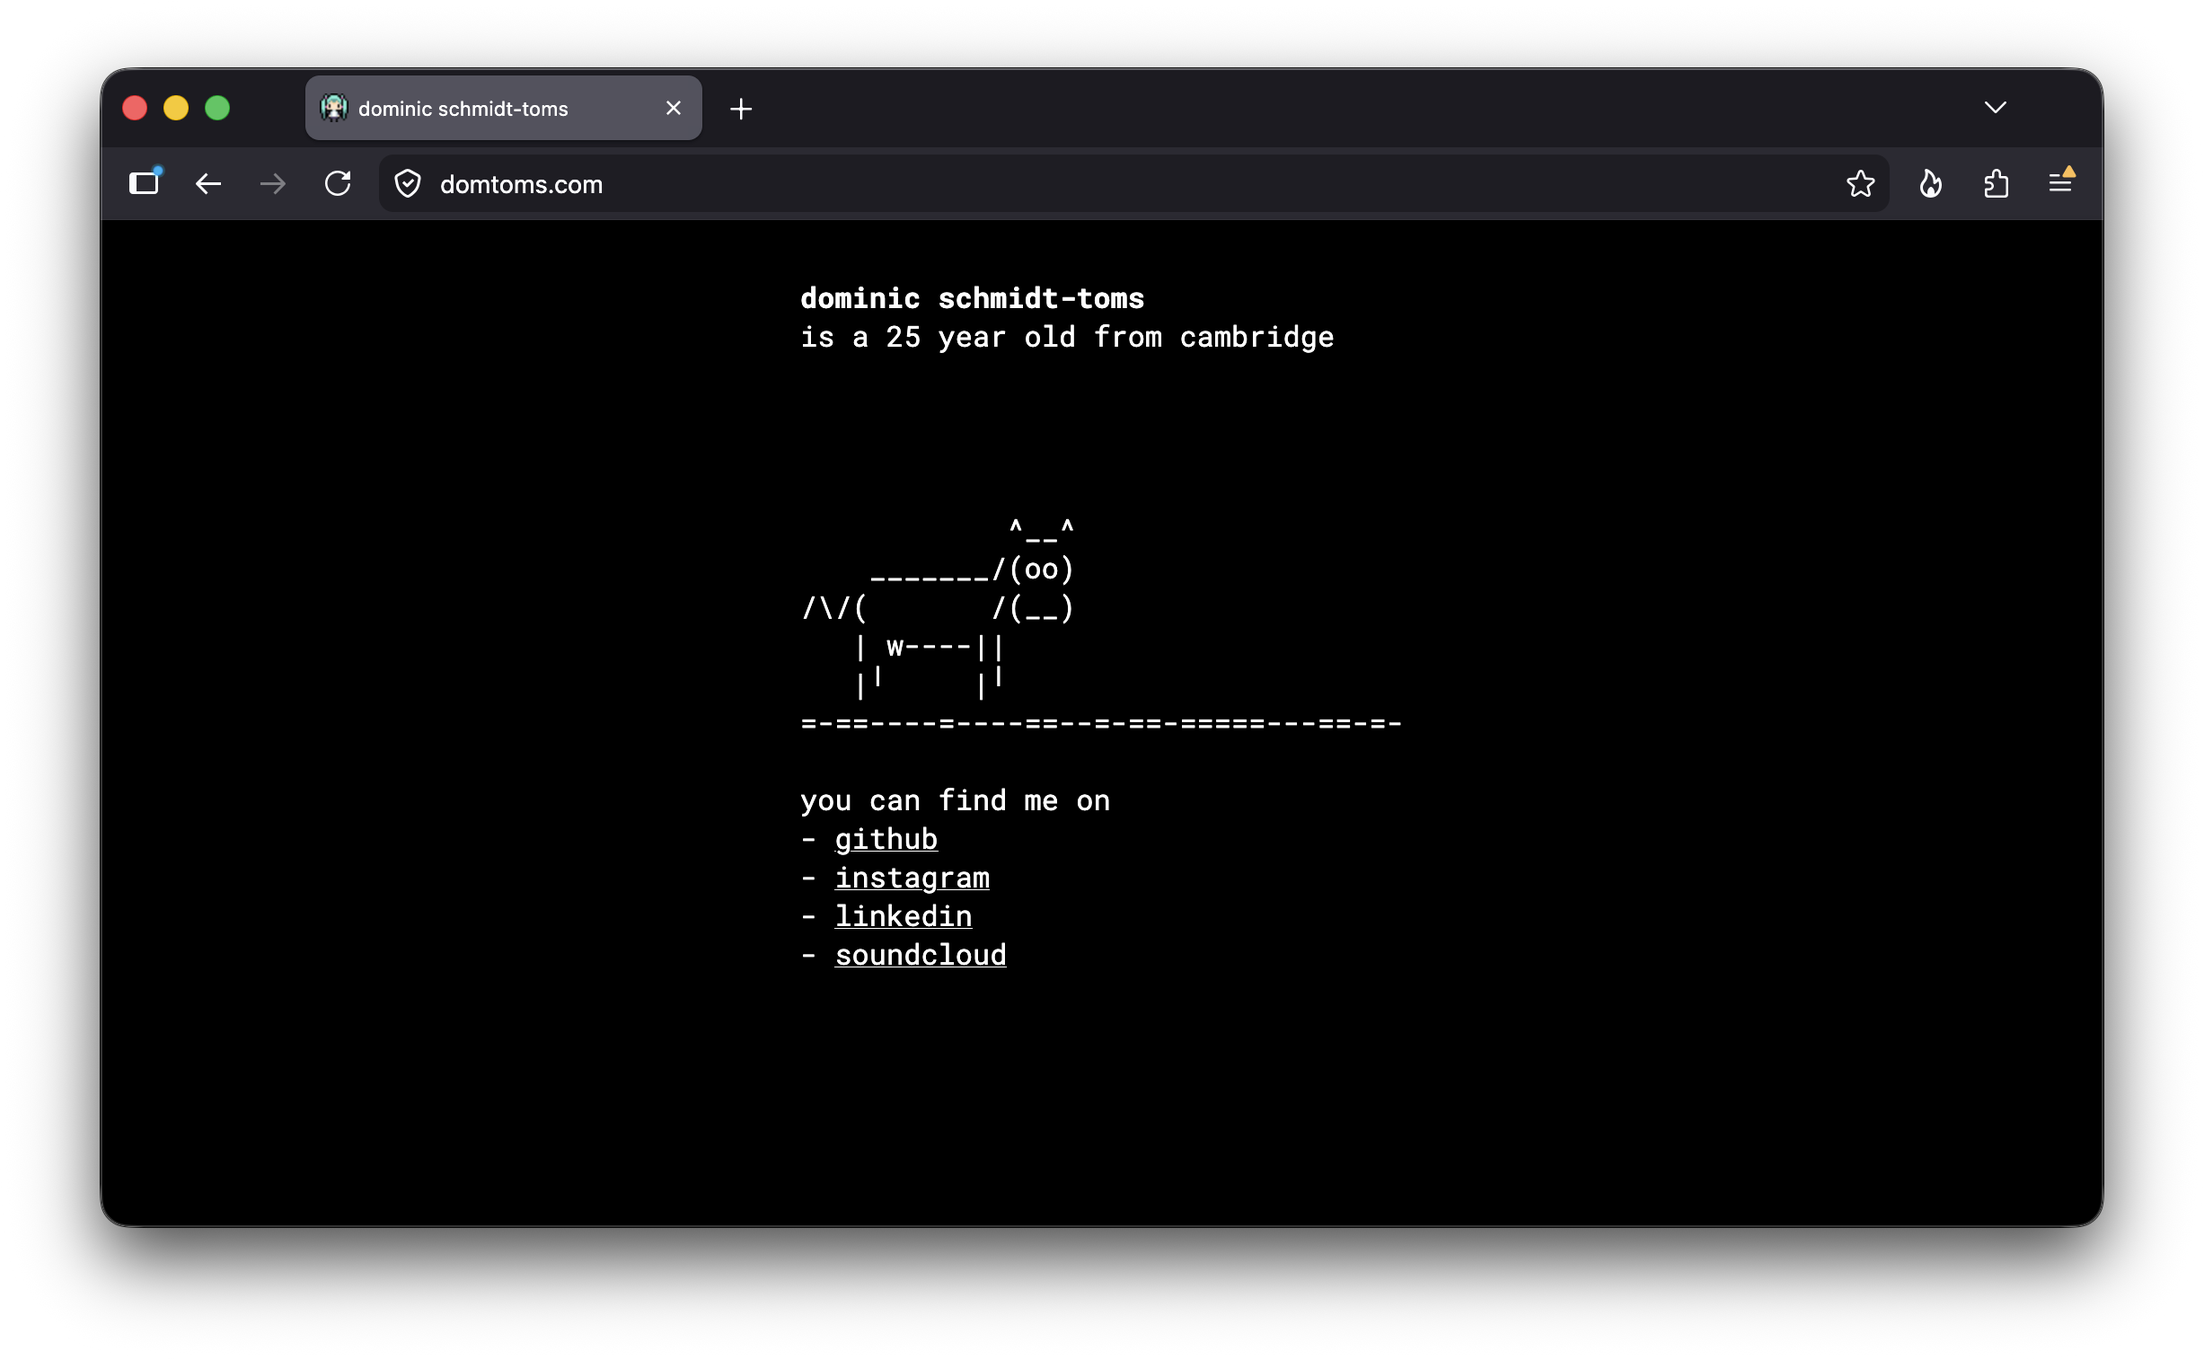
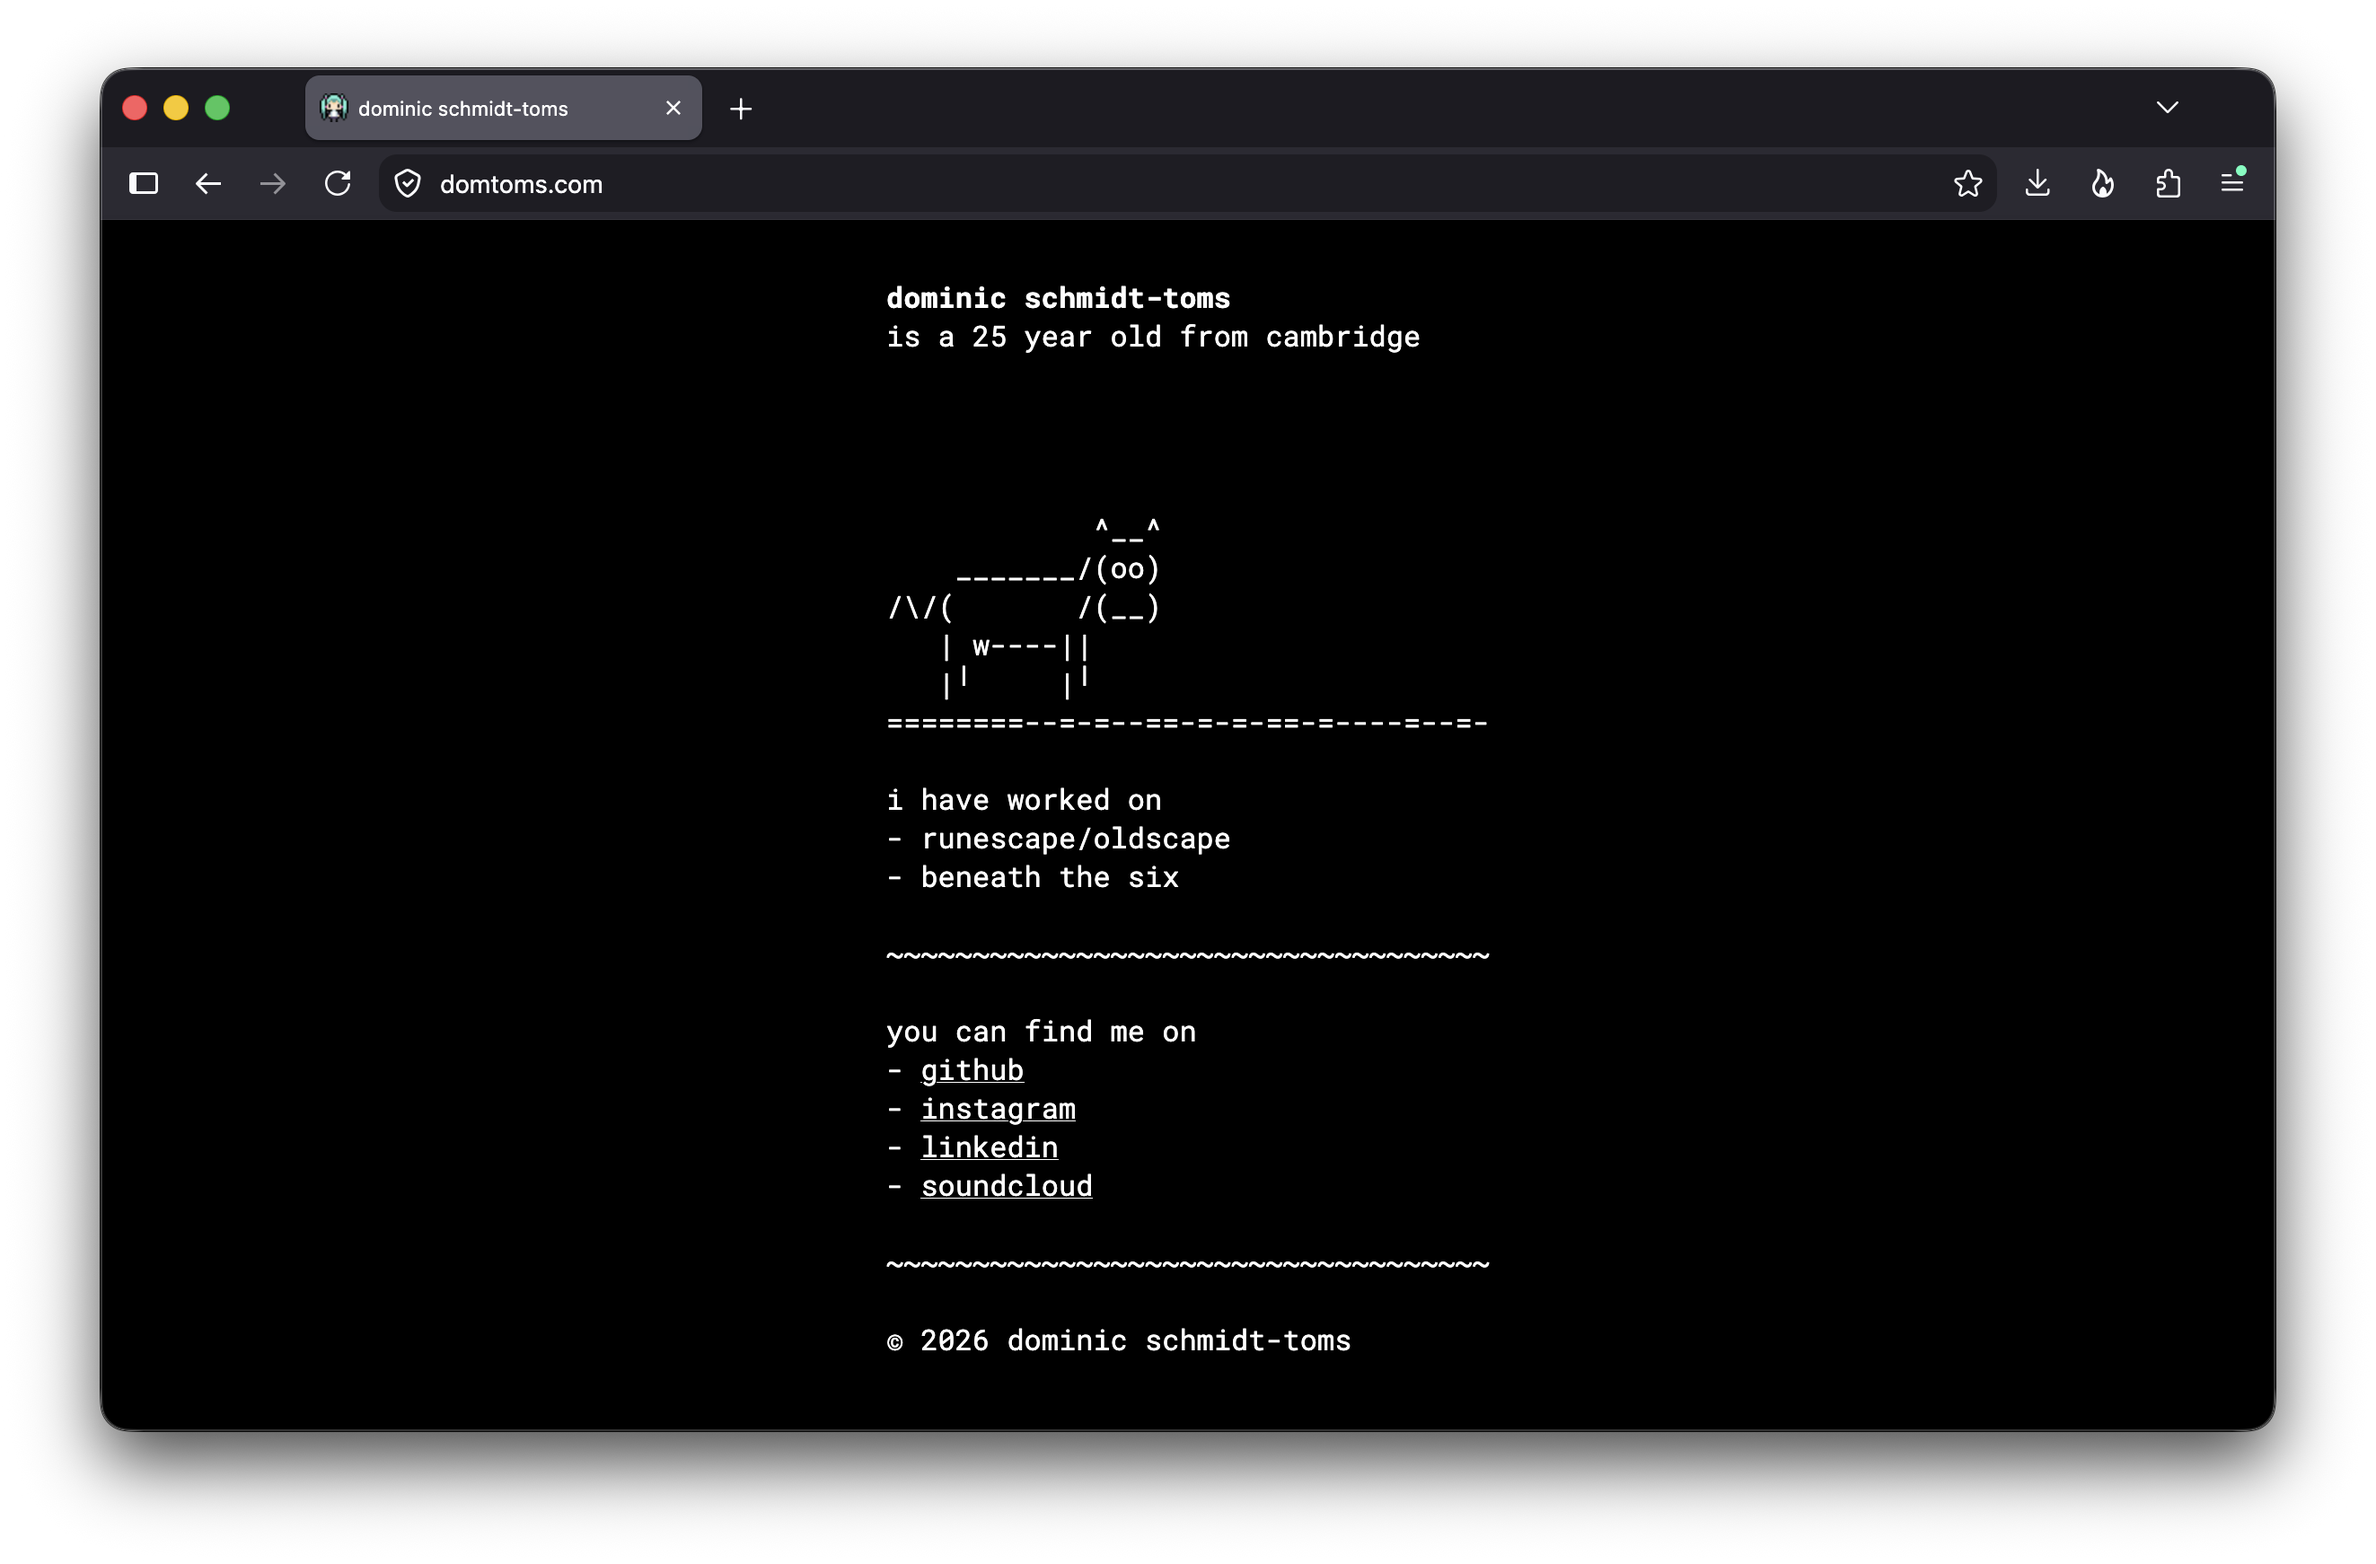
typewriter tweaks

diff --git a/js/typewriter.js b/js/typewriter.js
@@ -13,7 +13,6 @@ const yearsSince = date => {
 
 const phrases = [
 	`${yearsSince(new Date(2000, 10, 3))} year old from cambridge`,
-	'brainfuck extraordinaire',
 	'command line wizard',
 	'flac hoarder',
 	'jungle and techno dj',
@@ -21,7 +20,8 @@ const phrases = [
 	`ps2 player in ${new Date().getFullYear()}`,
 	`swe @ jagex`,
 	`uea graduate`,
-	`vegetarian of ${yearsSince(new Date(2021, 4, 19))} years`
+	`vegetarian of ${yearsSince(new Date(2021, 4, 19))} years`,
+	'vim purist'
 ];
 
 window.addEventListener("load", () => {
@@ -42,6 +42,9 @@ window.addEventListener("load", () => {
 
 		text.innerHTML = phrase;
 	};
+
+	text.style.animation = 'typing 6s linear infinite';
+	text.style.width = '0';
 
 	update();
 

diff --git a/css/style.css b/css/style.css
@@ -26,11 +26,6 @@ main {
 	white-space: nowrap;
 	display: inline-block;
 	vertical-align: top;
-
-	animation-name: typing;
-	animation-duration: 6s;
-	animation-iteration-count: infinite;
-	animation-timing-function: linear;
 }
 
 #cow {
